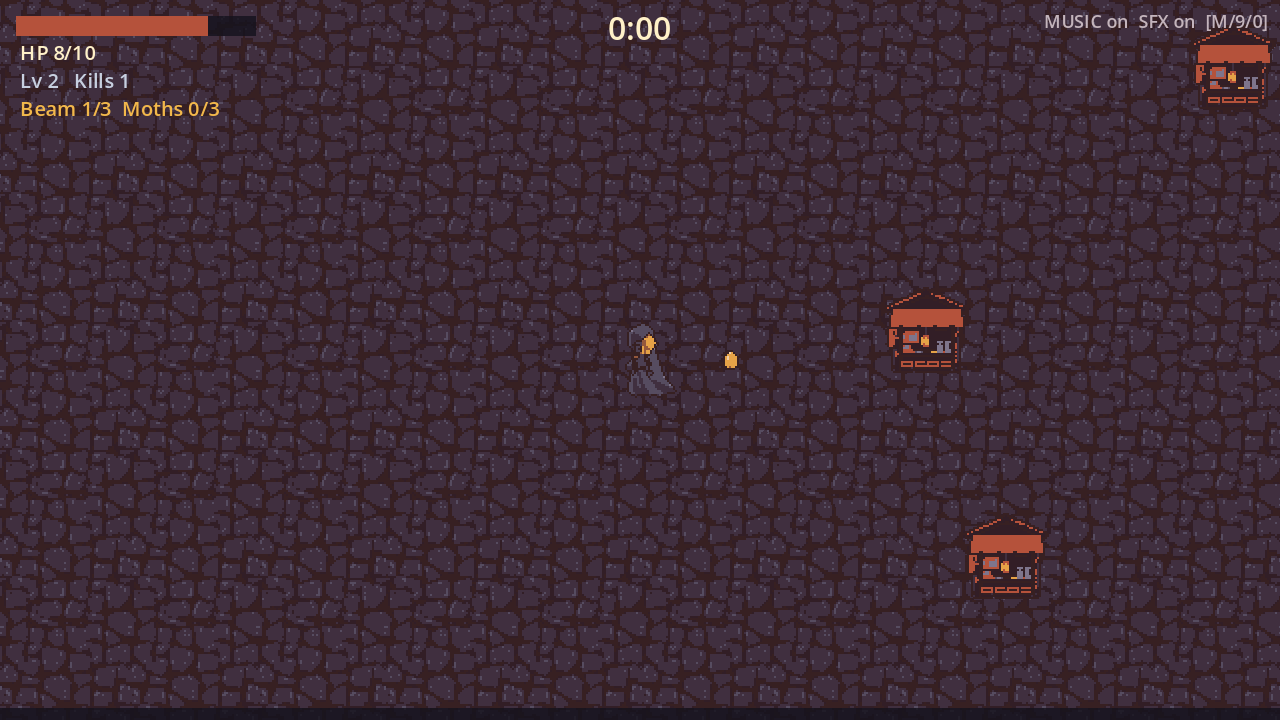
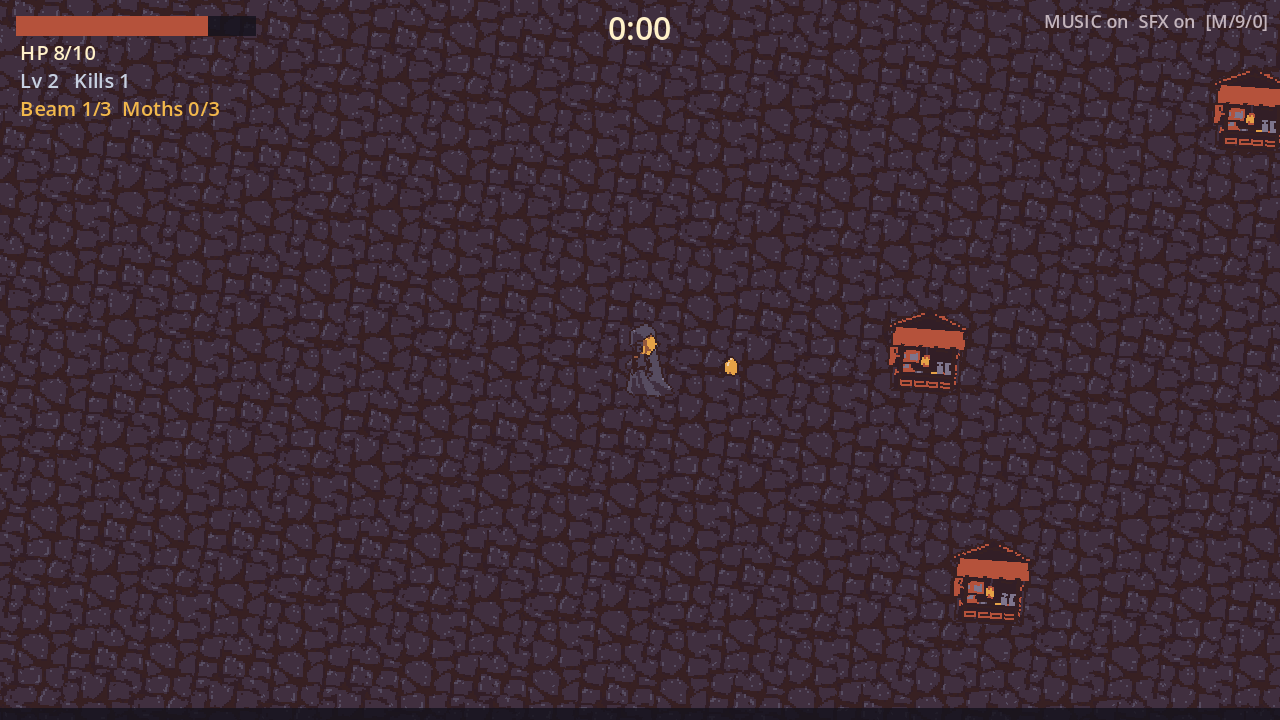
Add the storyboard's camera moves: title push-in, hit tilt, Sunflare zoom-out, fog lifting at 3:00
Visual only (CameraFx); four new gameplay checks; storyboard captures redone.

diff --git a/STORYBOARD.md b/STORYBOARD.md
@@ -137,3 +137,16 @@ Left: the design-v1 panel (rasterised with Godot's SVG loader, which drops the p
 | P9 end of run | "3:00 — The fog lifts", victory portrait, kills/level | the screen does **not** lighten ("fog pull-back" not implemented) |
 
 Camera moves were storyboard intentions for mood; the slice implements none of them. They are listed as known limitations and next steps rather than faked in the capture.
+
+### R2 · 2026-09-29 · The storyboard's camera moves, added after R1
+
+Bao asked for the camera moves R1 listed as missing. `godot/features/world/camera_fx.gd` implements them; the simulation never reads the camera, and `test_audio.gd::independence` still passes.
+
+| Panel | Now in the game | Verified by |
+|---|---|---|
+| P1 | title opens at zoom 0.8 and pushes in to 1.0 over 3 s | `test_gameplay.gd::camera-menu-push-in` |
+| P5 | on each hit the camera tilts up to 0.07 rad (≈ 4°) and settles over the 12 hurt-pose ticks | `camera-hurt-tilt` |
+| P6 | on Sunflare the camera zooms out to 0.72 over 20 ticks and back over 70 | `camera-sunflare-zoom-out` |
+| P9 | at 3:00 the screen washes towards mist (up to 45 %) while the camera pulls back to 0.82 over 2 s | `fog-lifts-on-win` |
+
+The comparison image above was re-captured with these moves (P1 wide, P5 tilted, P6 zoomed out, P9 lightened).

diff --git a/README.md b/README.md
@@ -70,7 +70,6 @@ Python checks run with the generation environment: `gen/.venv-audio/bin/python g
 
 ## Known limitations
 
-- The storyboard's camera moves (push-in, Dutch tilt, zoom-out, fog pull-back) are not implemented.
 - The fog-wraith has very low contrast against the ground (0.03) and the courier is small (≈20 px on a 360 px screen) — being judged in the muted playtest.
 - Music loops are 20 s (MusicGen's 30 s limit), so a 3-minute run hears the loop 9 times.
 - One map, two weapons, one evolution, no saving; balance is only roughly tuned.
